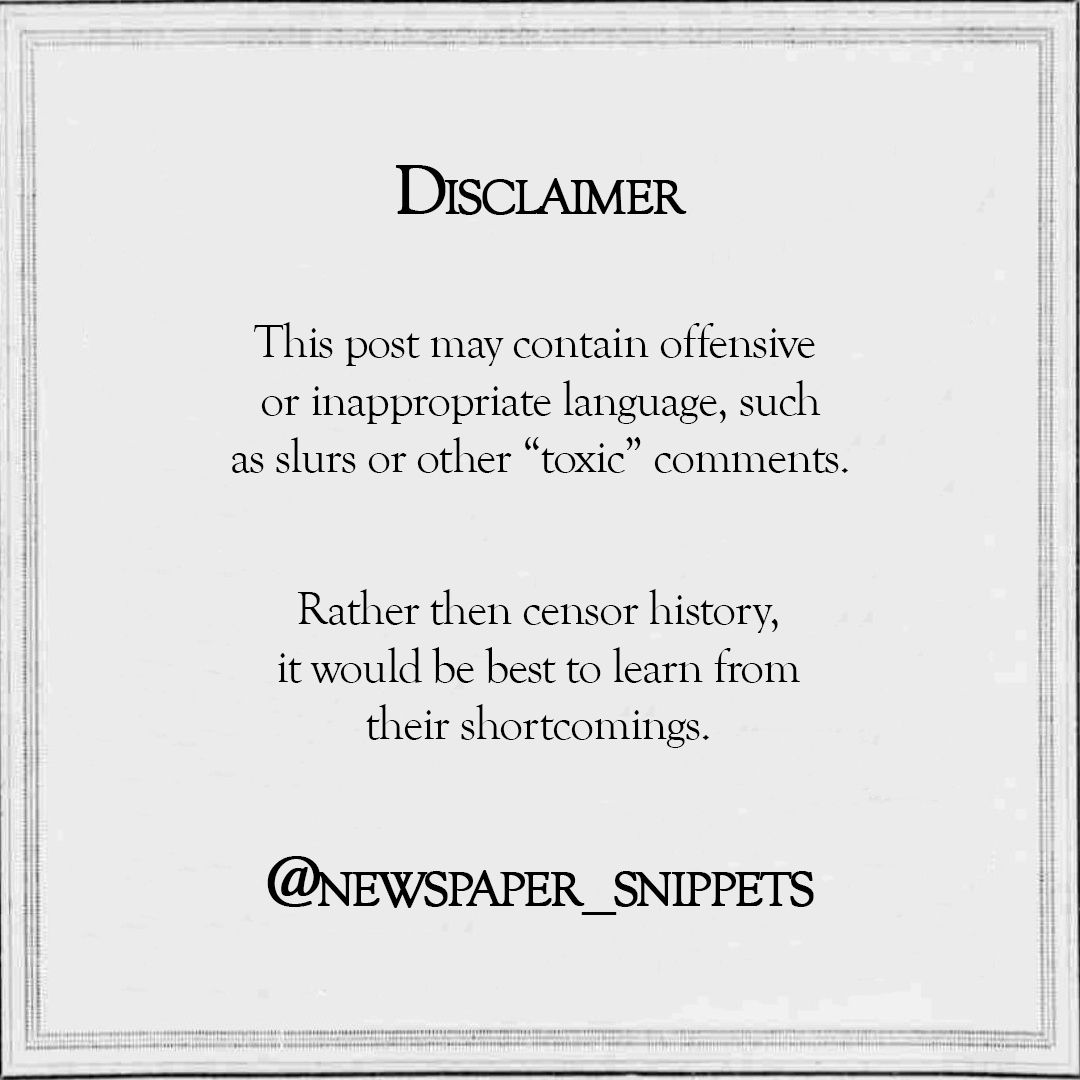
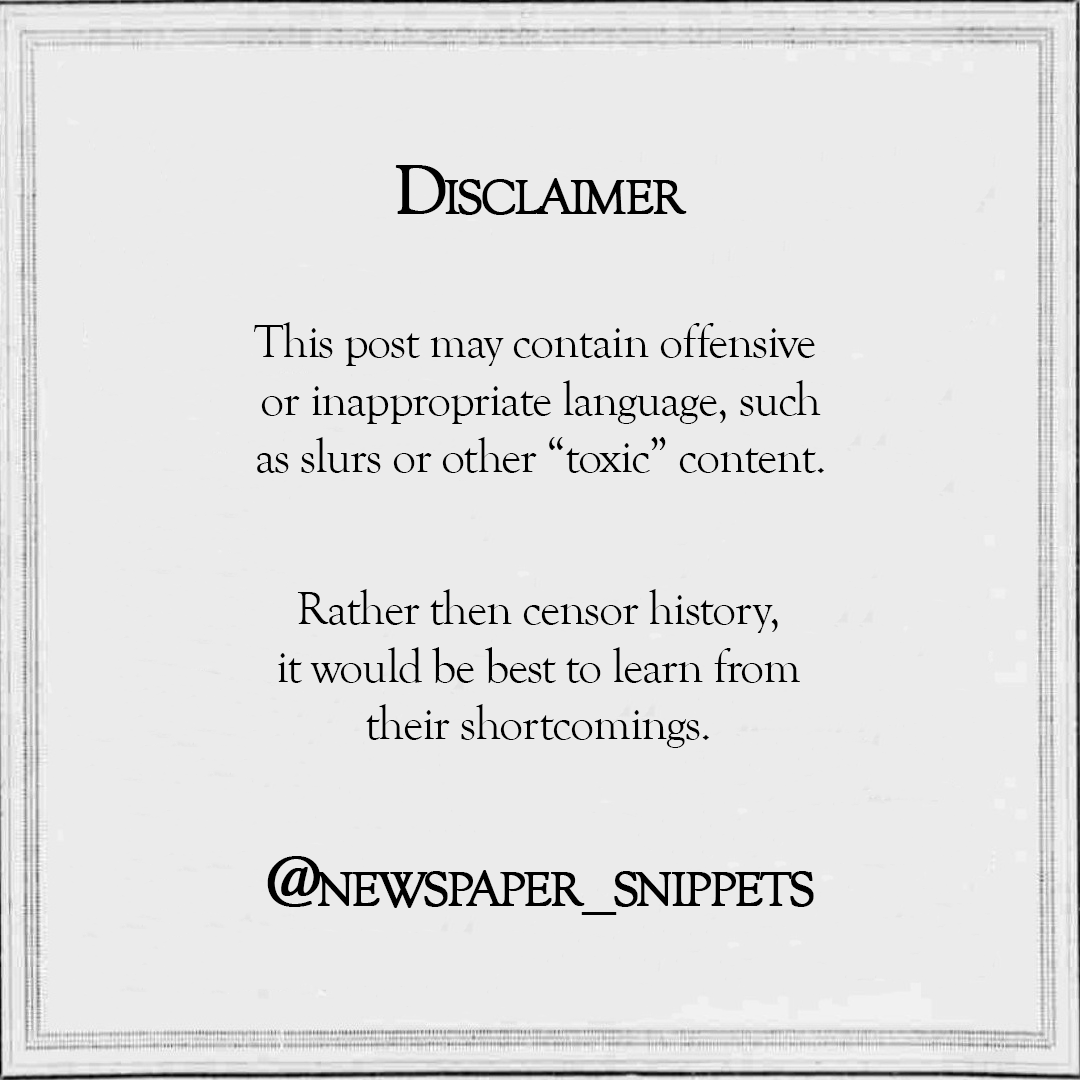
Changed disclaimer. Added disclaimer to twitter.

Changed region(s): [[0.2139, 0.3972, 0.7639, 0.4583]]

diff --git a/src/ns_twitter.py b/src/ns_twitter.py
@@ -1,12 +1,17 @@
 import tweepy
 
 
-def postTwitter(twitter, filename, caption):
+def postTwitter(twitter, filename, caption, disclaimer=False):
     auth = tweepy.OAuthHandler(
         twitter["consumer_key"], twitter["consumer_secret"])
     auth.set_access_token(
         twitter["access_token_key"], twitter["access_token_secret"])
     api = tweepy.API(auth)
 
-    media = api.media_upload(filename)
-    api.update_status(caption, media_ids=[media.media_id])
+    if (disclaimer):
+        disclaimer_img = api.media_upload('./images/disclaimer_lang.png')
+
+    post = api.media_upload(filename)
+
+    api.update_status(caption, media_ids=[
+                      disclaimer_img.media_id, post.media_id])
